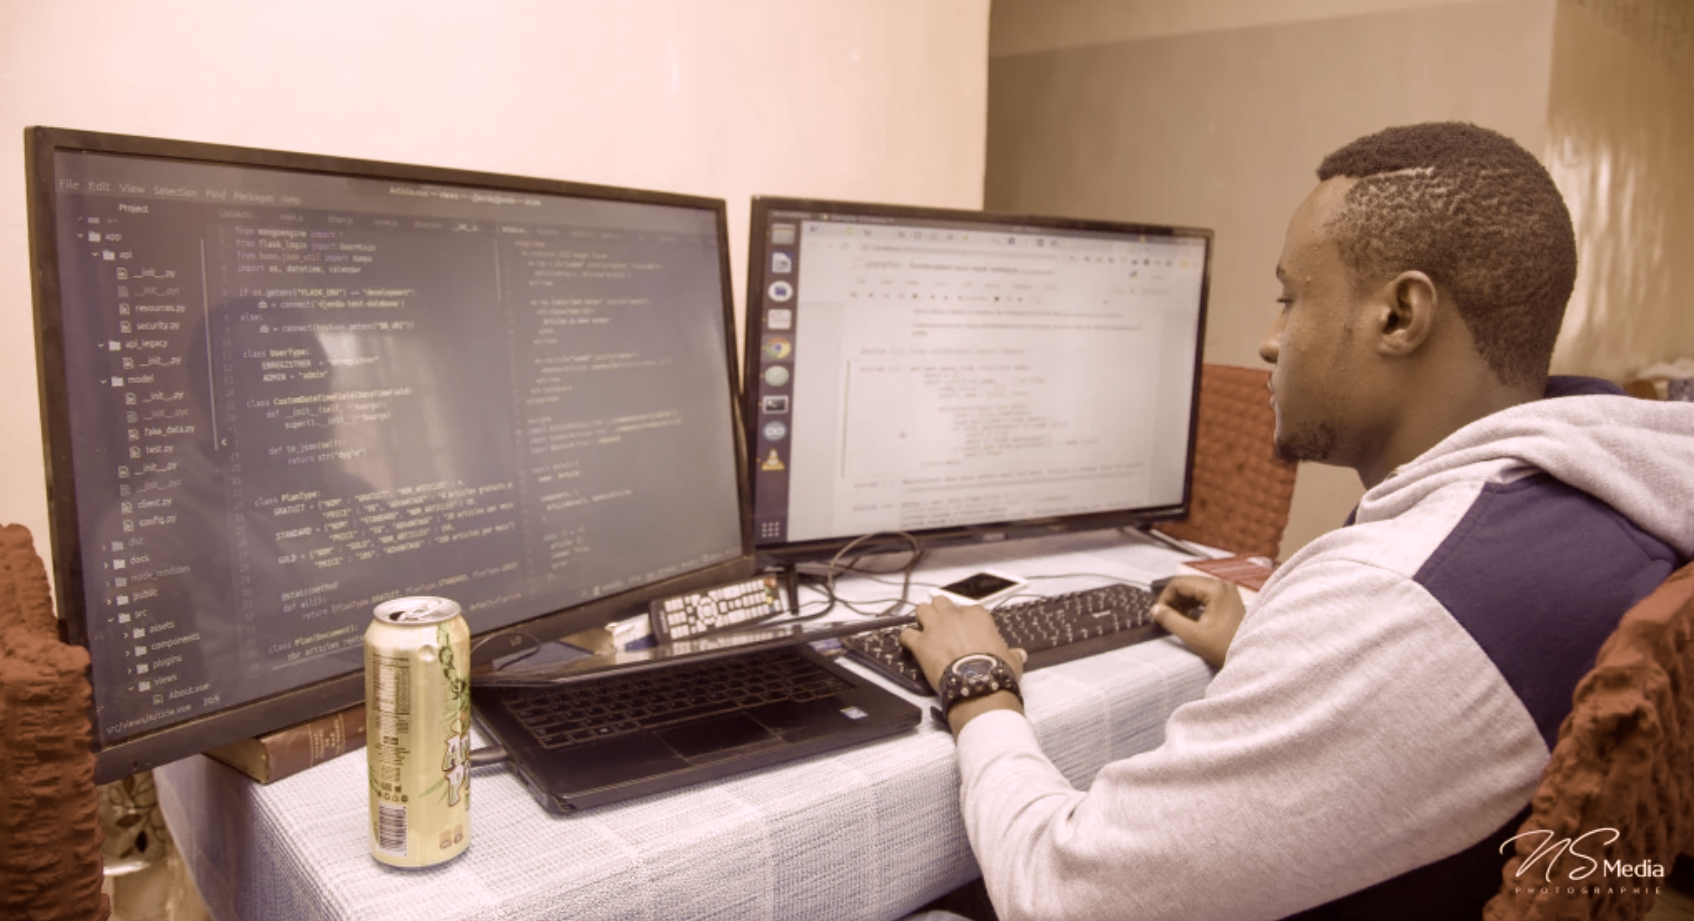
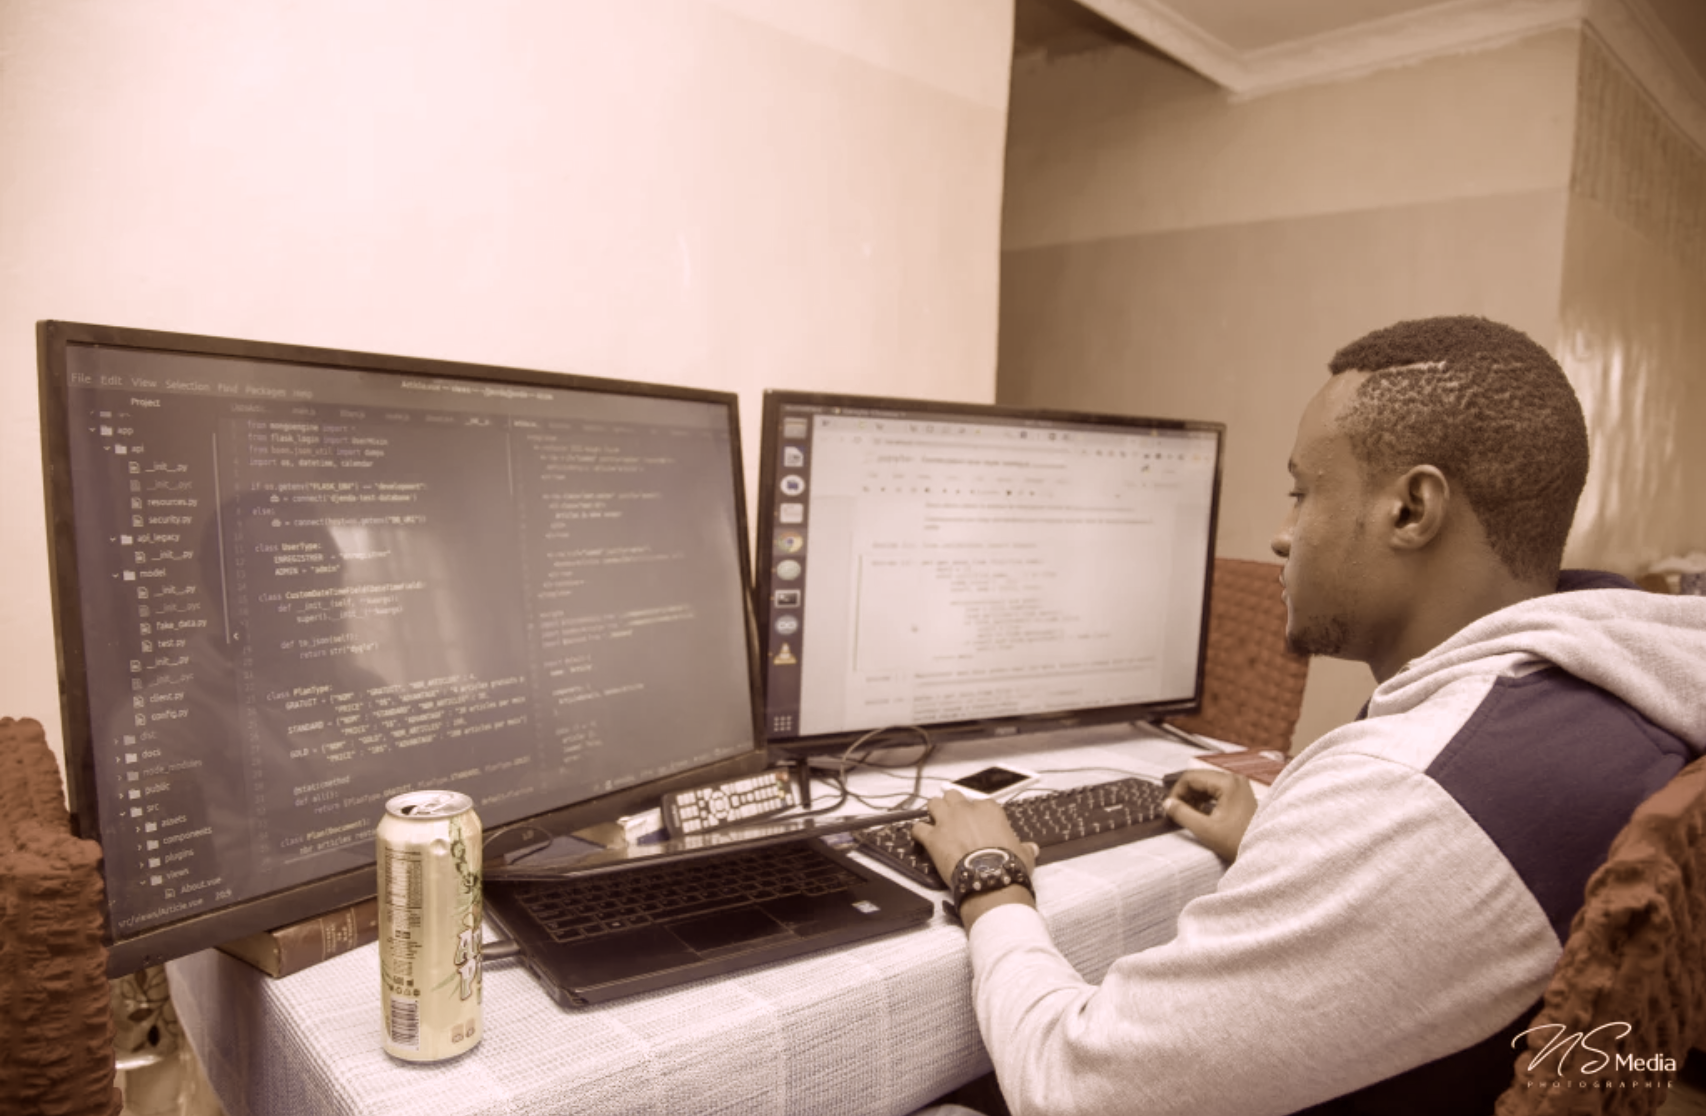
fix: about image sm

diff --git a/about.css b/about.css
@@ -7,8 +7,8 @@
 
 .my-photo 
 {
-    height: 25vh;
-    background-image: url('img/about/me.png');
+    height: 30vh;
+    background-image: url('img/about/me-small.png');
     background-size: cover;
 }
 
@@ -61,6 +61,7 @@
     }
     .my-photo
      {
+        background-image: url('img/about/me.png');
         height: 60vh;
         grid-area: 1/3/1/7;
         z-index: 1;
